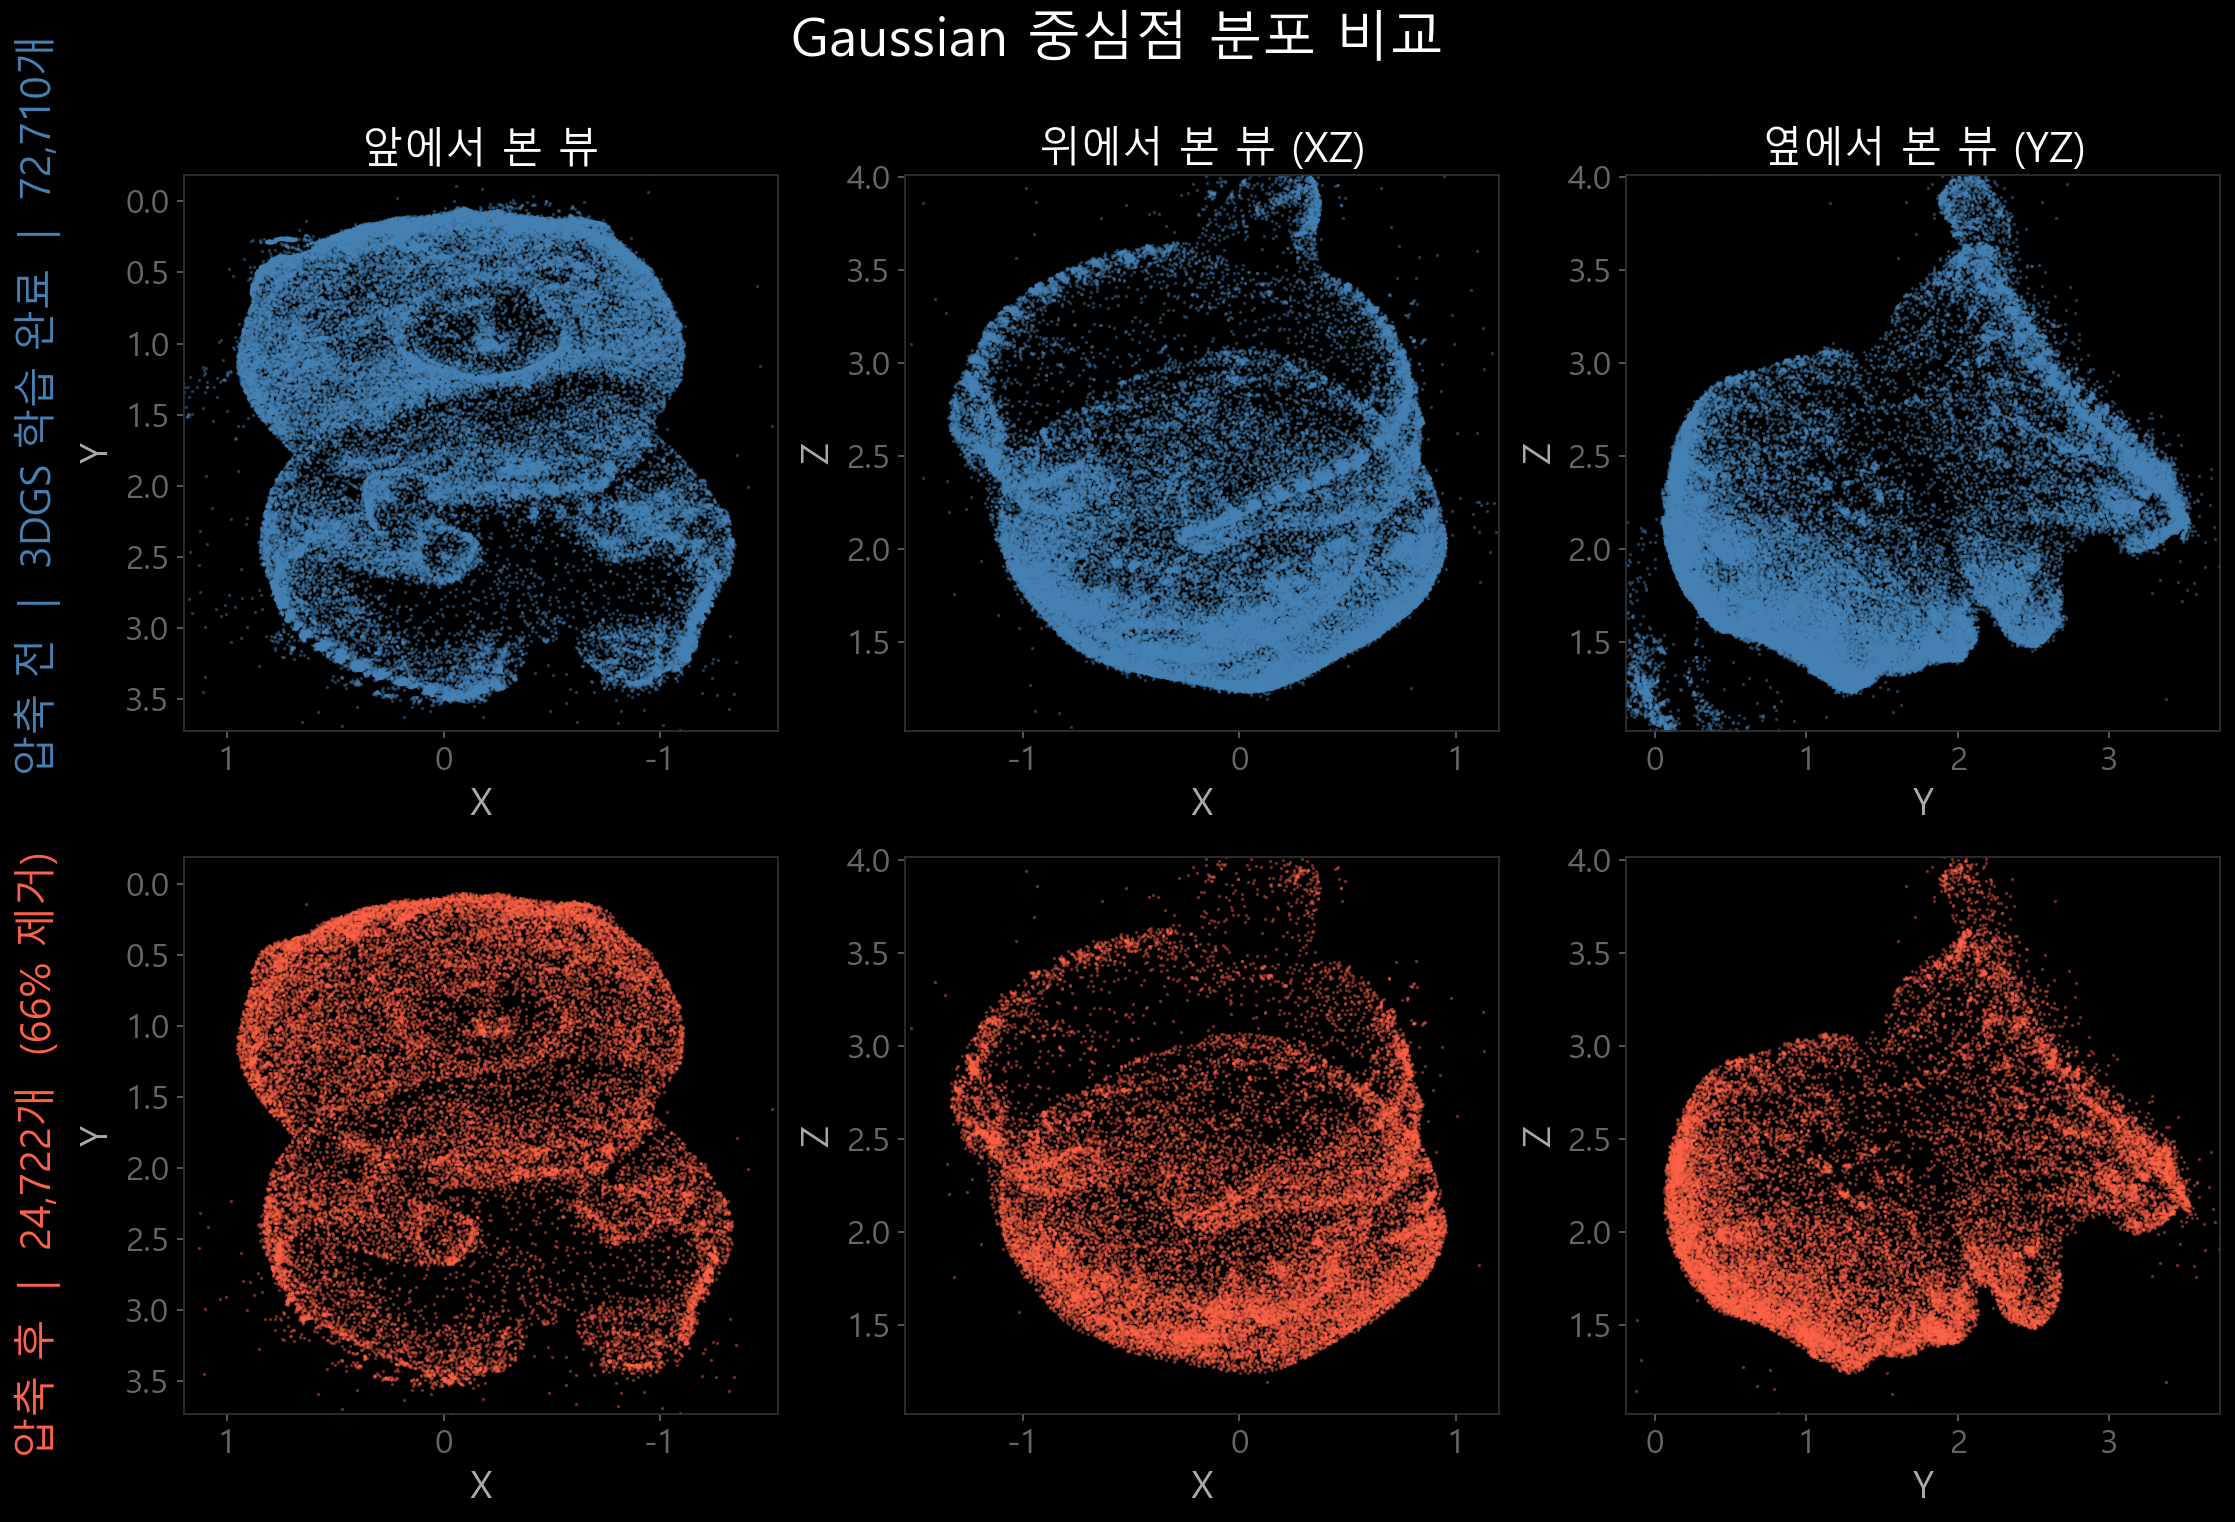
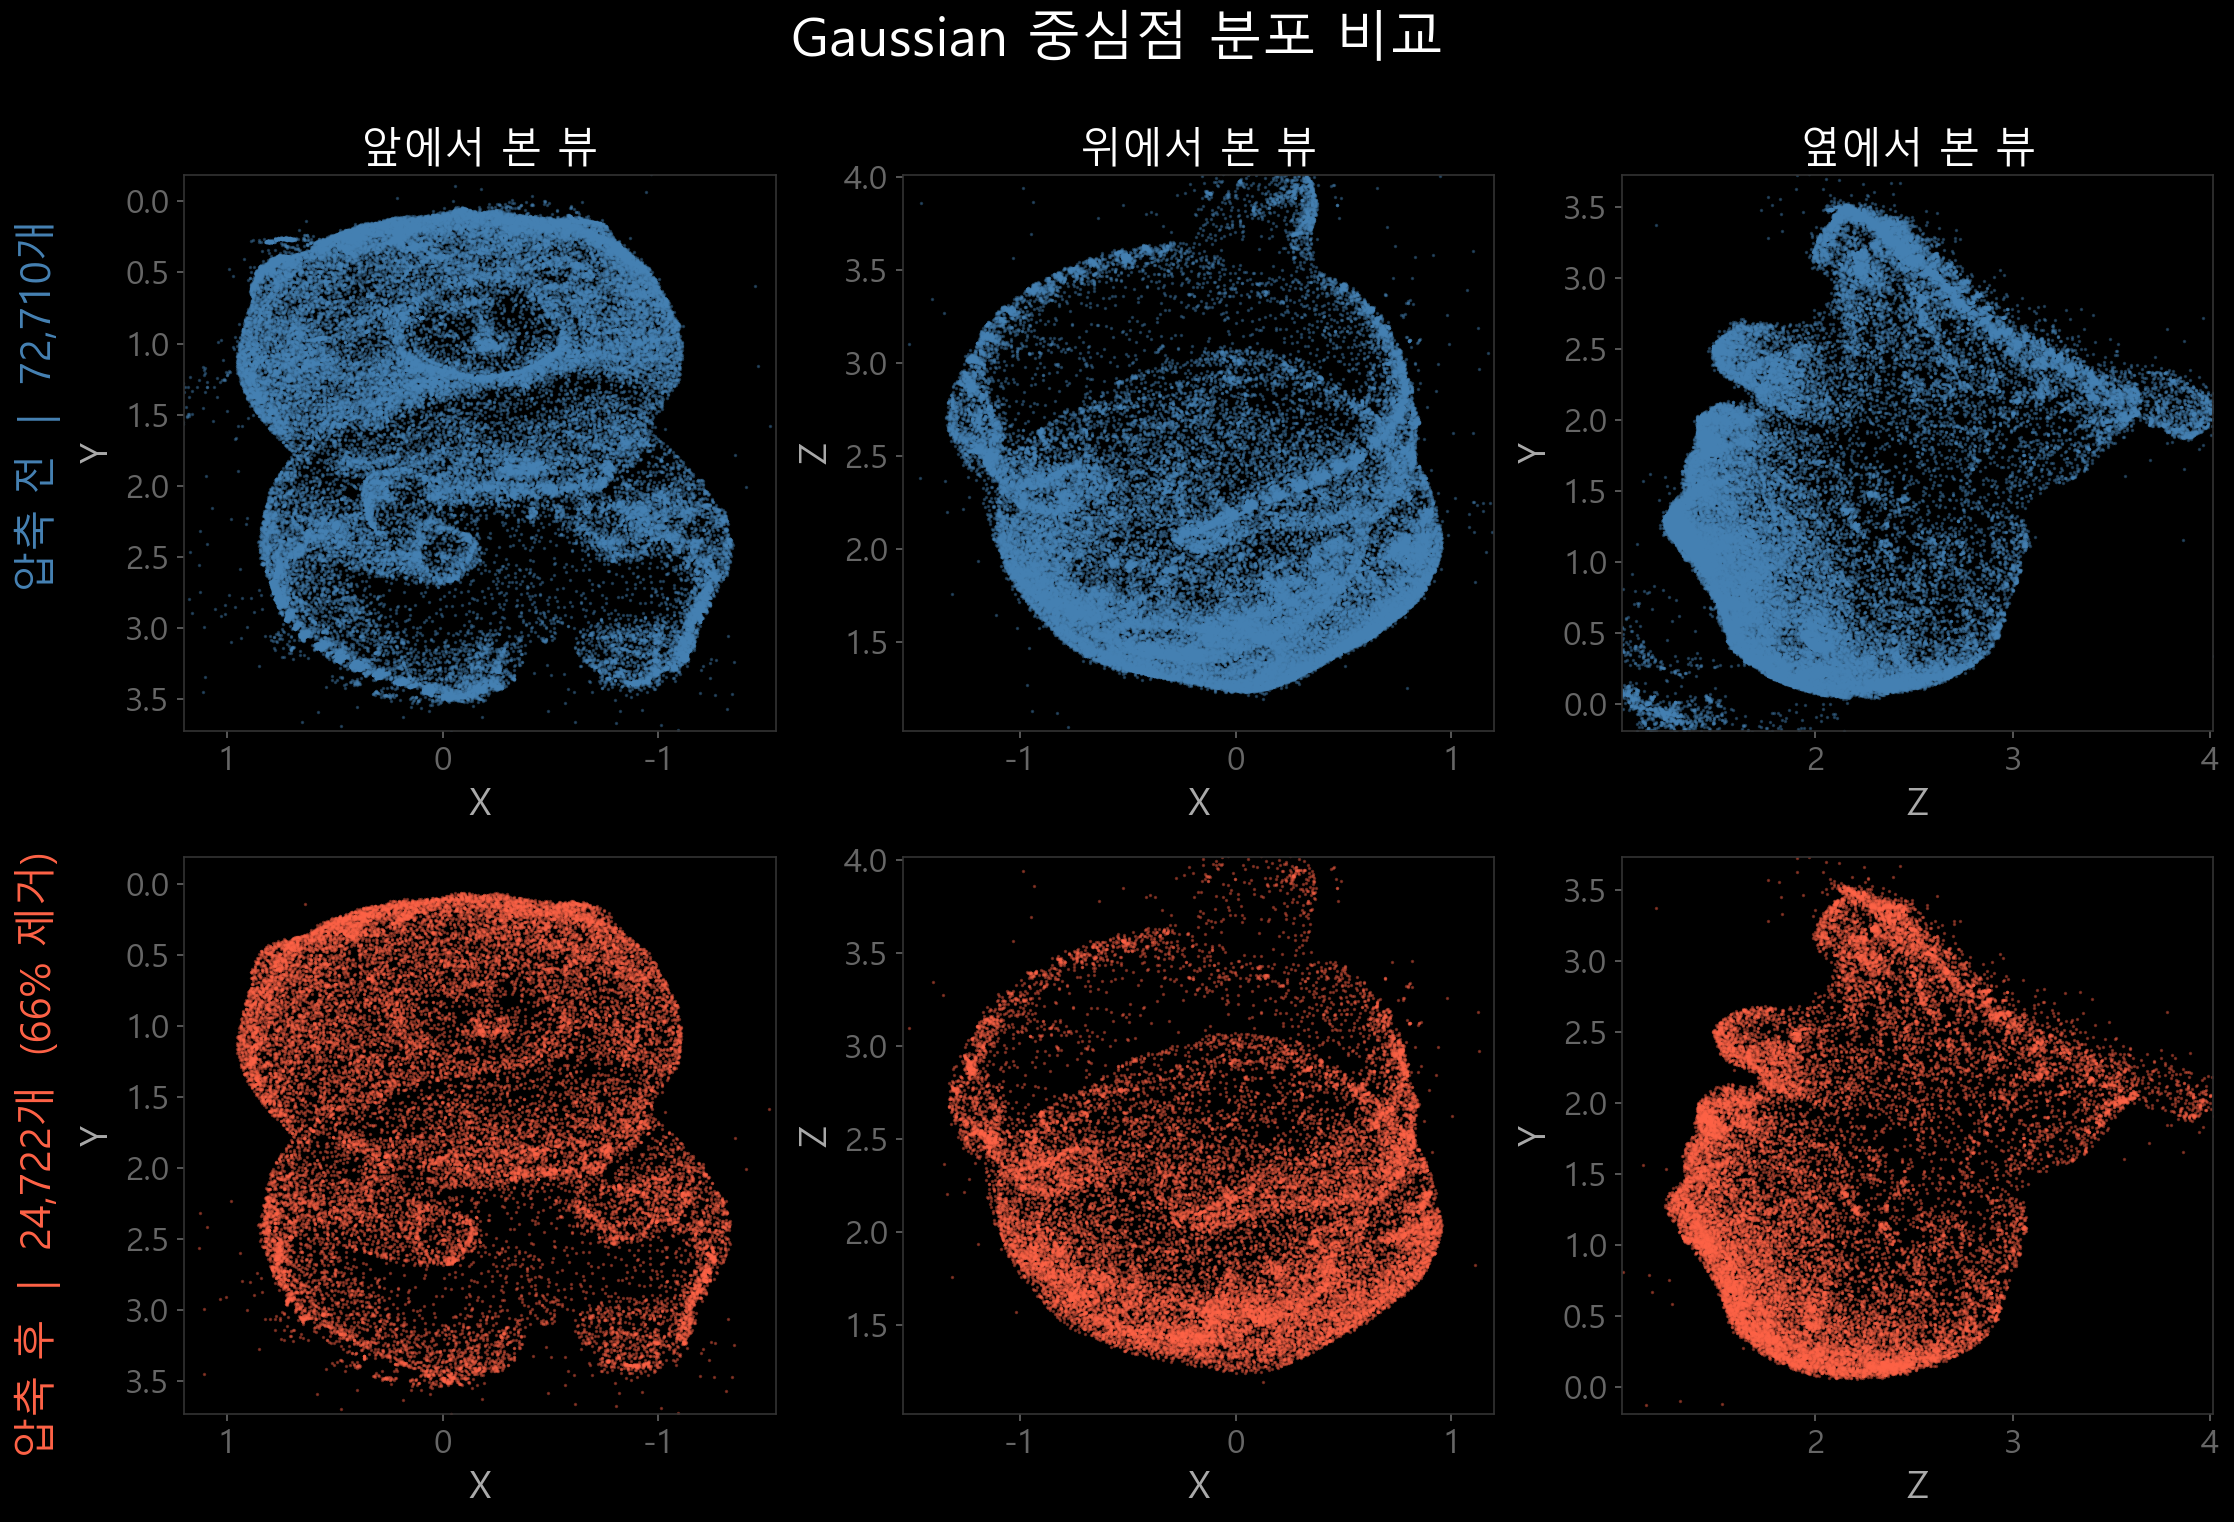
viz: fix view titles, axis labels, and row label in gaussian_compare
- Remove (XZ)/(YZ) parentheticals from titles
- Fix 옆에서 본 뷰 axis: swap to Z(horizontal)/Y(vertical) for correct side view
- Remove '3DGS 학습 완료' from top row label

diff --git a/gaussian_visualization/visualize_gaussians.py b/gaussian_visualization/visualize_gaussians.py
@@ -27,11 +27,10 @@ def get_lim(pts, axis, pad=0.3):
 
 
 def make_plot(raw, comp, same_color=False):
-    # col 0: XY축 데이터이지만 "옆에서 본 뷰"로 표시, col 2: YZ축 데이터이지만 "위에서 본 뷰"로 표시
     views = [
         ('앞에서 본 뷰', 0, 1, 'X', 'Y'),
-        ('위에서 본 뷰 (XZ)', 0, 2, 'X', 'Z'),
-        ('옆에서 본 뷰 (YZ)', 1, 2, 'Y', 'Z'),
+        ('위에서 본 뷰', 0, 2, 'X', 'Z'),
+        ('옆에서 본 뷰', 2, 1, 'Z', 'Y'),  # 가로=Z(깊이), 세로=Y(높이)
     ]
     xlims = [(get_lim(comp, xi), get_lim(comp, yi)) for _, xi, yi, _, _ in views]
 
@@ -39,7 +38,7 @@ def make_plot(raw, comp, same_color=False):
     color_comp = 'white' if same_color else 'tomato'
 
     rows = [
-        (raw,  color_raw,  f'압축 전  |  3DGS 학습 완료  |  {len(raw):,}개'),
+        (raw,  color_raw,  f'압축 전  |  {len(raw):,}개'),
         (comp, color_comp, f'압축 후  |  {len(comp):,}개  (66% 제거)'),
     ]
 